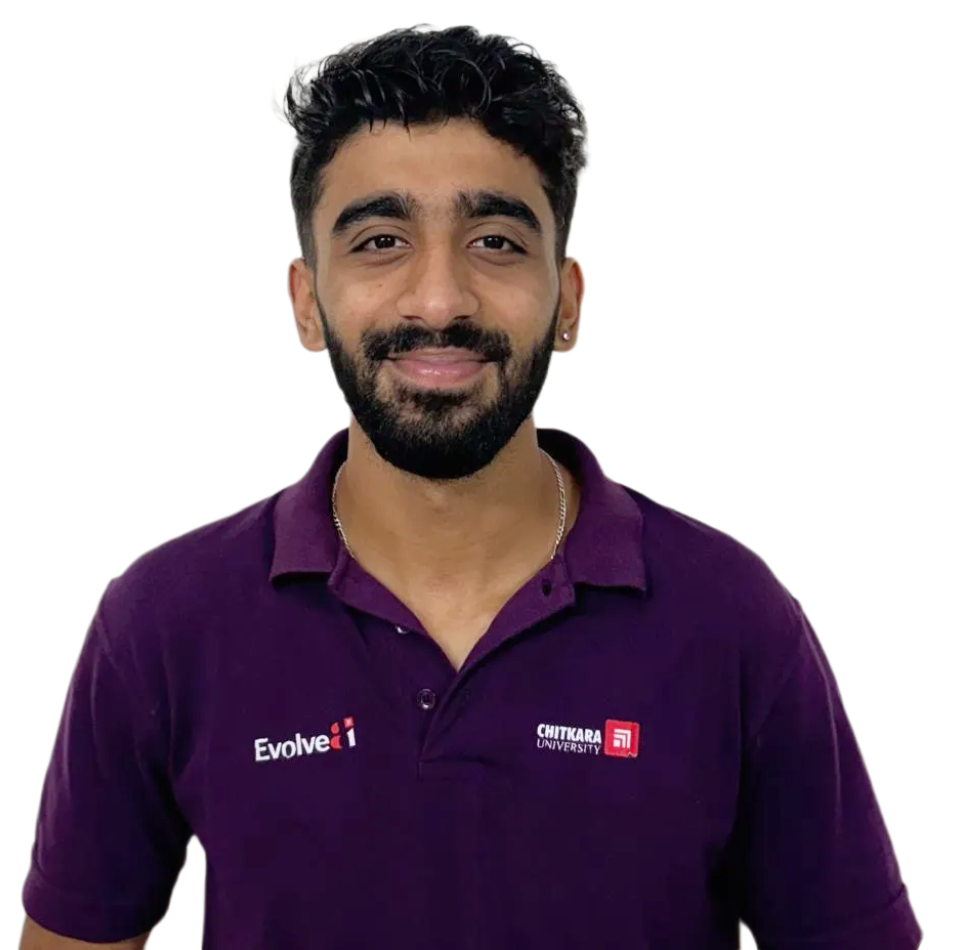
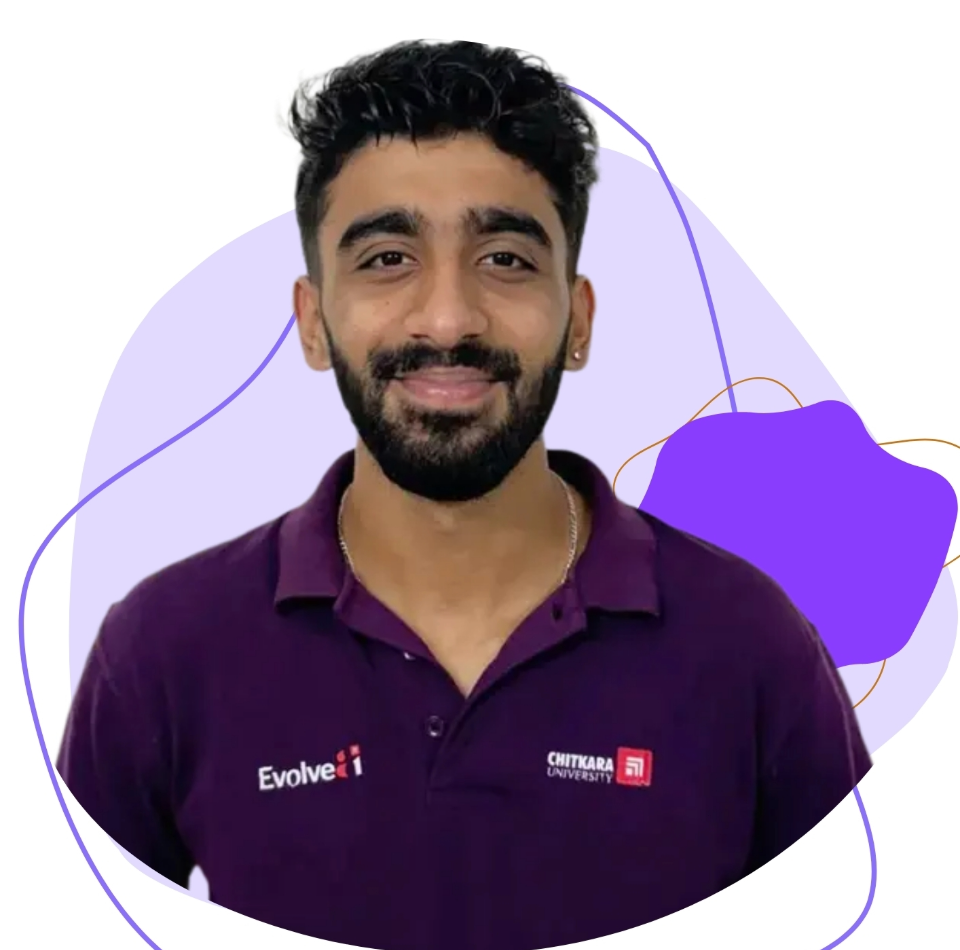
bhaii abb toh sahi mein thak geya hu

diff --git a/components/team/executive-groups.tsx b/components/team/executive-groups.tsx
@@ -100,39 +100,15 @@ function ExecutiveCard({ person, index }: { person: Person; index?: number }) {
 
       {/* Image Area */}
       <div className="relative h-[240px] w-full overflow-hidden rounded-t-[22px]">
-        {/* Abstract Blob */}
-        <div
-          className={`absolute inset-3 rounded-[45%_55%_48%_52%/48%_43%_57%_52%] bg-gradient-to-br ${config.blob} transition-transform duration-700 group-hover:scale-[1.05]`}
-        />
-
-        {/* Decorative arrow - keeping it subtle and non-overlapping */}
-        <div className="absolute right-6 top-14 z-10 text-purple-500/30 transition-transform duration-500 group-hover:rotate-12">
-          <svg width="28" height="28" viewBox="0 0 40 40" fill="none">
-            <path
-              d="M10 28C15 20 20 15 29 11"
-              stroke="currentColor"
-              strokeWidth="2"
-              strokeLinecap="round"
-            />
-            <path
-              d="M21 10L30 10L29 19"
-              stroke="currentColor"
-              strokeWidth="2"
-              strokeLinecap="round"
-              strokeLinejoin="round"
-            />
-          </svg>
-        </div>
-
         {/* Person */}
-        <div className="absolute bottom-0 left-1/2 z-10 flex w-[78%] max-w-[215px] -translate-x-1/2 justify-center transition-transform duration-500 group-hover:scale-[1.03]">
+        <div className="absolute inset-0 z-10 flex justify-center transition-transform duration-500 group-hover:scale-[1.03]">
           <Image
             src={person.photo}
             alt={person.name}
-            width={309}
-            height={461}
+            width={400}
+            height={400}
             priority={index !== undefined && index < 4}
-            className="h-auto w-full object-contain object-bottom"
+            className="h-full w-full object-contain object-bottom"
           />
         </div>
 
